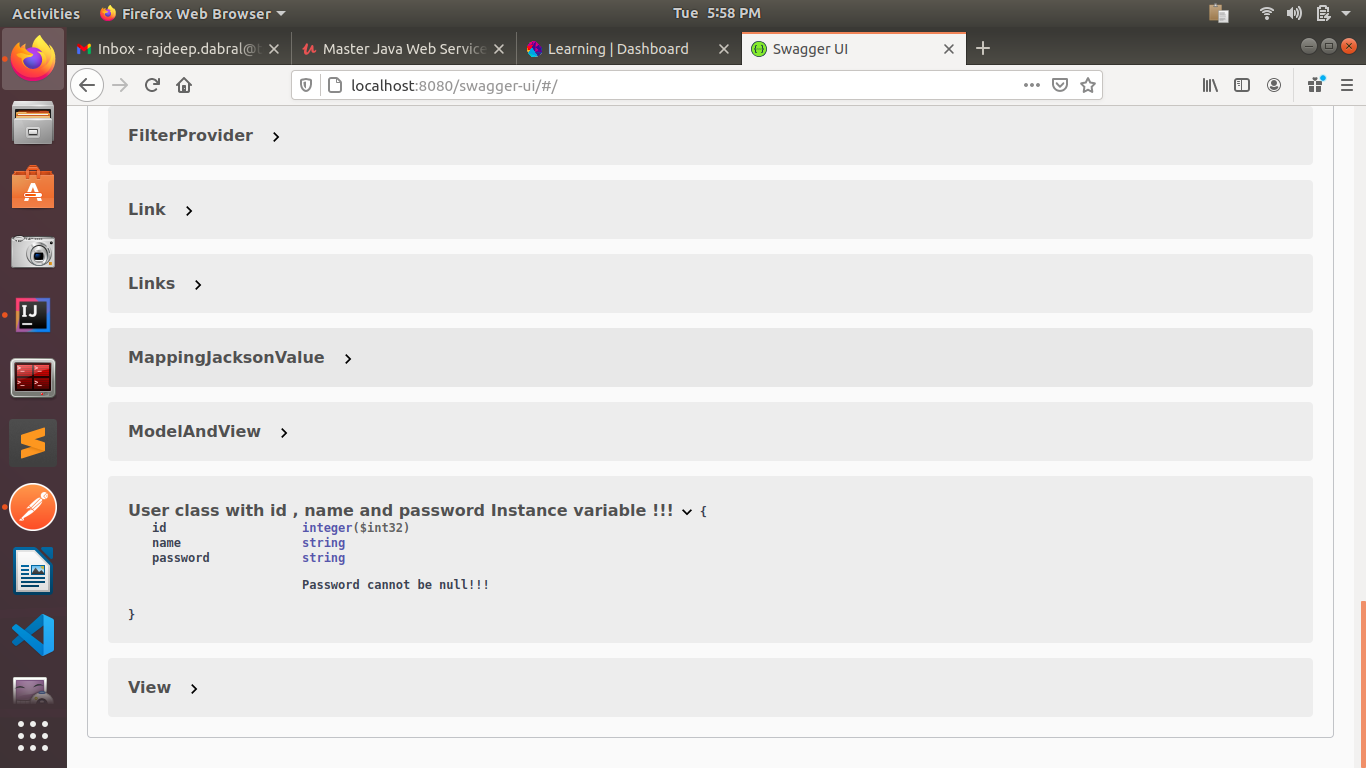
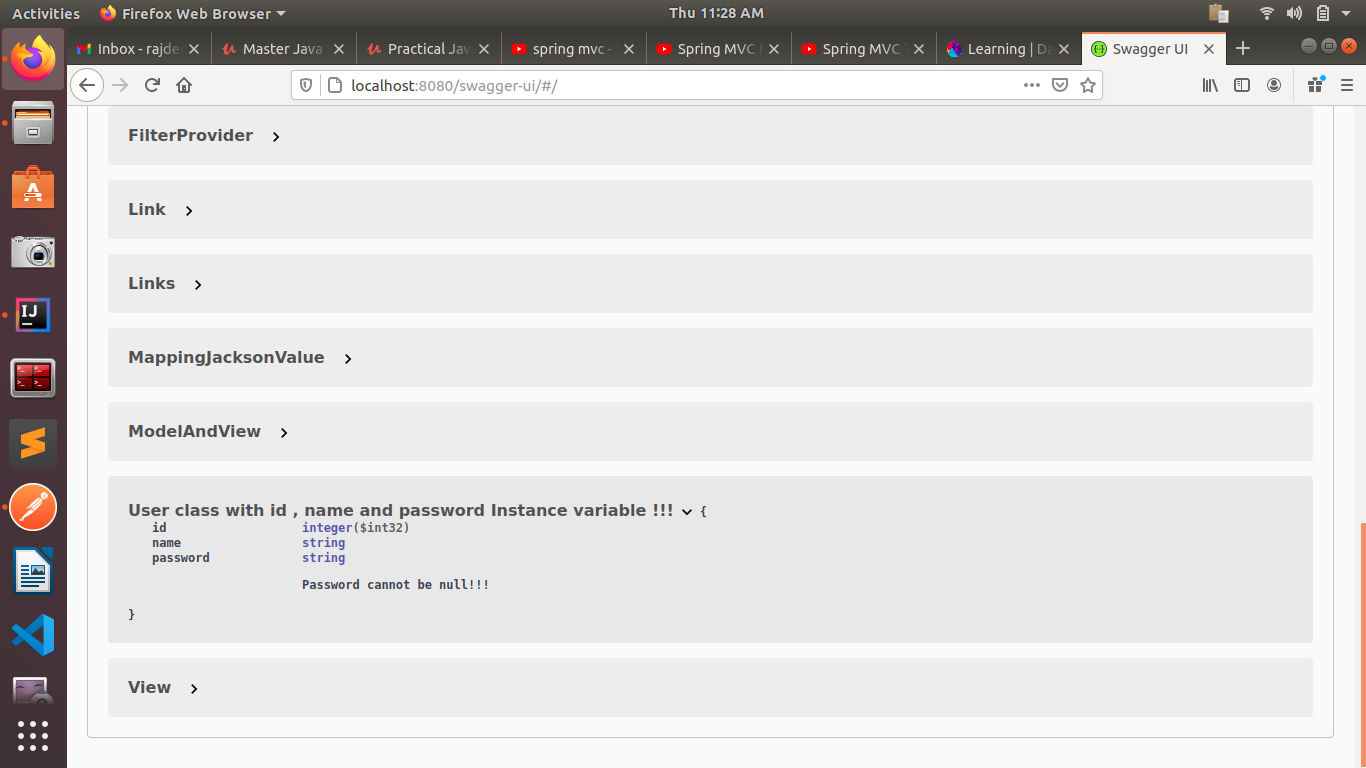
Completed all Questions

Changed region(s): [[0.123, 0.0, 0.9224, 0.125], [0.9839, 0.6875, 1.0, 0.7812]]

diff --git a/restFullWebServicePart2/src/main/java/dabral/rajdeep/restFullWebServicePart2/RestFullWebServicePart2Application.java b/restFullWebServicePart2/src/main/java/dabral/rajdeep/restFullWebServicePart2/RestFullWebServicePart2Application.java
@@ -8,11 +8,13 @@ import org.springframework.context.support.ResourceBundleMessageSource;
 import org.springframework.web.servlet.LocaleResolver;
 import org.springframework.web.servlet.i18n.AcceptHeaderLocaleResolver;
 import org.springframework.web.servlet.i18n.SessionLocaleResolver;
+import springfox.documentation.swagger2.annotations.EnableSwagger2;
 
 import java.util.Locale;
 
 @SpringBootApplication
 //@Configuration
+@EnableSwagger2
 public class RestFullWebServicePart2Application {
 
 	public static void main(String[] args) {

diff --git a/restFullWebServicePart2/src/main/java/dabral/rajdeep/restFullWebServicePart2/UserController.java b/restFullWebServicePart2/src/main/java/dabral/rajdeep/restFullWebServicePart2/UserController.java
@@ -109,9 +109,14 @@ public class UserController {
              Save details of the user using POST request.
              Delete a user using DELETE request.
 
+             // screenshot added
+
 
      7. In swagger documentation, add the description of each class and URI so that in swagger
            UI the purpose of class and URI is clear.
+
+
+          // screenshot added
      */
 
 

diff --git a/restFullWebServicePart2/src/main/java/dabral/rajdeep/restFullWebServicePart2/User.java b/restFullWebServicePart2/src/main/java/dabral/rajdeep/restFullWebServicePart2/User.java
@@ -8,7 +8,7 @@ import io.swagger.annotations.ApiModelProperty;
 import org.jetbrains.annotations.NotNull;
 
 //@JsonFilter("User")
-@ApiModel("User class with id , name and password Instance variable !!!")
+@ApiModel("User class with id , name and password !!!")
 public class User {
     private int id;
    //@JsonIgnore
